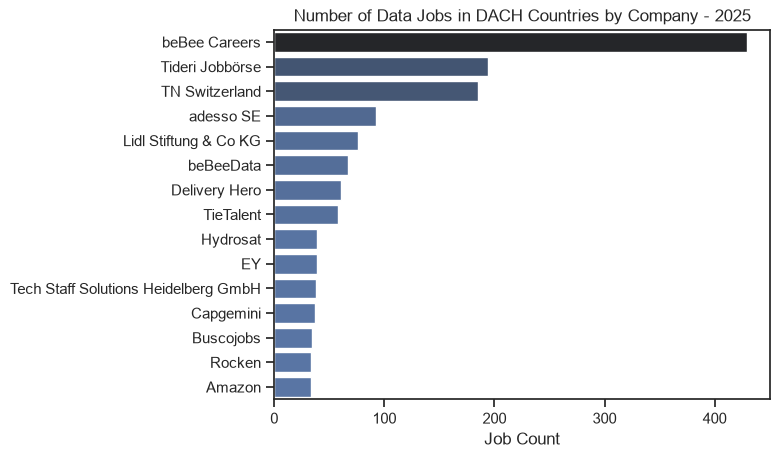
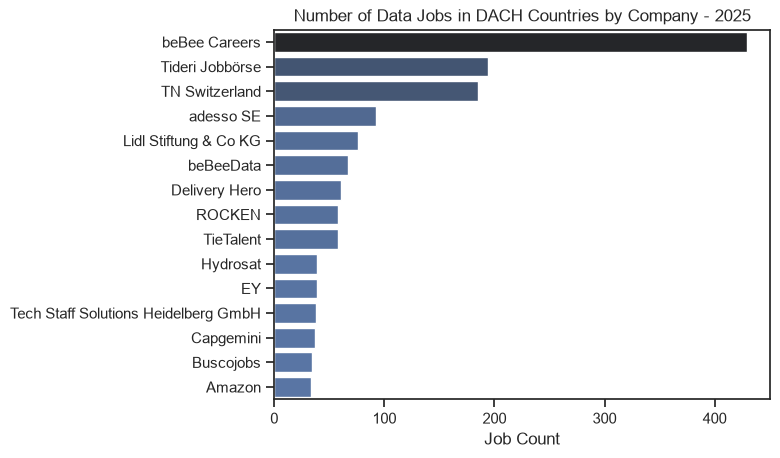
Updating plot visualizations for No of jobs by company

diff --git a/README.md b/README.md
@@ -4,9 +4,14 @@
 
 This project is part of my public [Data Analysis Project repository](https://github.com/fallerdavid98-ai/Data_Analysis_Project/tree/main) and analyzes the demand for technical skills in data-related job postings across the DACH region. For this analysis, the region includes **Germany, Austria, Switzerland, and Luxembourg**.
 
-The project uses the job-posting dataset provided through [Luke Barousse's Python course](https://lukebarousse.com/python). It begins with an exploratory overview of the DACH job market and then analyzes role-specific skill demand, monthly skill trends, salary distributions, and the relationship between skill prominence and median salary.
+The project began with the 2023 job-posting dataset provided through [Luke Barousse's Python course](https://lukebarousse.com/python) and has since been extended with a global data export containing records into 2026. It starts with an exploratory overview of the DACH job market and then analyzes role-specific skill demand, monthly skill trends, salary distributions, and the relationship between skill prominence and median salary.
 
-All five project notebooks are now included in the documented analytical workflow.
+To maintain comparability, **2023 remains the baseline year** and **January through November 2025 is used as the most recent DACH comparison period** for the EDA, skill-demand, skill-trend, and optimal-skill visualizations. The original 2023 charts are retained alongside the new 2025 results. Salary-distribution boxplots are the only exception: because individual recent periods contain too few reported annual salaries, the updated distribution pools all available DACH salary observations rather than being interpreted as a before-and-after comparison.
+
+> [!IMPORTANT]
+> **Different maximum dates:** The complete global export extends into 2026, but the DACH subset contains records only through **November 2025**. Consequently, the updated DACH charts contain no 2026 observations, and the 2025 comparison does not include December.
+
+All five project notebooks are included in the documented analytical workflow.
 
 ## Project Navigation
 
@@ -52,7 +57,7 @@ This project is designed to answer the following questions:
 
 ### Import and clean the dataset
 
-The dataset is loaded and converted into a Pandas DataFrame. Date values are converted to a datetime data type, while the serialized skill lists are converted into Python lists.
+The original 2023 analysis loads the course dataset through Hugging Face. The updated notebooks use a newer global CSV export containing records into 2026; after filtering to the DACH countries, the latest available observation is from November 2025. In both cases, date values are converted to a datetime data type and serialized skill lists are converted into Python lists.
 
 ```python
 import ast
@@ -70,6 +75,30 @@ df["job_skills"] = df["job_skills"].apply(
     lambda x: ast.literal_eval(x) if pd.notna(x) else x
 )
 ```
+
+The updated notebooks load the current export locally:
+
+```python
+df = pd.read_csv("Exporte/job_postings_flat.csv")
+
+df["job_posted_date"] = pd.to_datetime(df["job_posted_date"])
+df["job_skills"] = df["job_skills"].apply(
+    lambda x: ast.literal_eval(x) if pd.notna(x) else x
+)
+```
+
+> [!NOTE]
+> The `Exporte/` directory is excluded from version control. To rerun the updated notebooks, the current CSV export must be supplied locally and its path adjusted to the local project structure.
+
+### Select comparable periods
+
+The updated year-specific analyses select 2025 because the DACH subset contains no 2026 observations:
+
+```python
+df_2025 = df[df["job_posted_date"].dt.year == 2025]
+```
+
+The salary-distribution analysis deliberately omits this year filter and uses the complete available DACH period from 2023 through November 2025. The revised image filename and plot title now refer to `2023 to 2025`; more precisely, the effective DACH observation window ends in November 2025.
 
 ### Filter the DACH region
 
@@ -143,6 +172,18 @@ df_DACH_plot = (
 - **Remote or non-specific locations form a separate category:** `Anywhere` is one of the most frequent labels, but it should not be interpreted as a physical DACH location.
 - **The ranking mixes different geographical grains:** Cities, countries, and remote-location labels are compared in the same chart. It is therefore a useful overview of the raw location field, not a clean city-only market ranking.
 
+#### 2025 comparison
+
+![Number of Data Jobs in DACH Countries 2025](images/2025_Number_of_Data_Jobs_in_DACH_Countries.png)
+
+*The same location ranking calculated from the 2025 comparison year.*
+
+- **Berlin remains the leading city-level location:** It retains first place in both periods.
+- **Zürich gains prominence:** Zürich moves from behind Vienna and Munich in the 2023 baseline to second place in 2025, while Vienna moves down to sixth.
+- **Frankfurt labels are consolidated in 2025:** Entries containing `Frankfurt` are standardized as `Frankfurt a. M., Germany`, improving comparability within the updated year.
+- **The mixed-grain limitation remains:** Country labels and `Anywhere` still appear alongside cities.
+- **Absolute posting counts are much lower in the 2025 extract:** This may reflect changes in source coverage, collection volume, or the underlying market. The chart alone cannot attribute the difference to a market contraction.
+
 ### Work-from-home, degree, and health-insurance indicators
 
 Three Boolean fields provide an initial view of selected characteristics recorded for DACH postings:
@@ -167,6 +208,16 @@ for column in eda_columns:
 - **Explicit work-from-home offers are uncommon:** Only **4.1%** of postings are marked `True` for `job_work_from_home`. This reflects the dataset flag and may not capture every hybrid-working arrangement described in the original vacancy text.
 - **No degree is mentioned in a substantial minority of postings:** `job_no_degree_mention` is `True` for **41.7%** of the DACH subset. Because the column describes the absence of a degree mention, `True` must not be interpreted as a degree requirement.
 - **The health-insurance field is not informative for this regional analysis:** Every DACH observation is marked `False`. This should not be read as evidence that DACH employers provide no health coverage; the field is atypical for the European context and likely reflects the source schema rather than actual benefit availability.
+
+#### 2025 comparison
+
+![Remote Work Degree Requirement and Health Insurance Indicators 2025](images/2025_Remote_Work_Degree_Requirement_Health_Insurance_Plot.png)
+
+*The same three Boolean indicators calculated from the 2025 comparison year.*
+
+- **The explicit work-from-home share decreases slightly:** It moves from **4.1%** in 2023 to **3.3%** in 2025, a decline of **0.8 percentage points**.
+- **Postings without a degree mention become somewhat more common:** The `True` share for `job_no_degree_mention` rises from **41.7%** to **46.2%**, an increase of **4.5 percentage points**.
+- **Health insurance remains analytically uninformative:** The `True` share changes from **0.0%** to only **0.1%** and still should not be interpreted as actual DACH benefit coverage.
 
 ### Companies with the most postings
 
@@ -201,6 +252,18 @@ df_DACH_plot2 = (
 - **Deutsche Bahn is the leading employer in the dataset:** After consolidating its naming variants, it records the highest number of DACH postings by a clear margin.
 - **Turing ranks second:** Workwise GmbH, Michael Page, Hays, GITR, and ROCKEN form the next group of frequently represented companies.
 - **Company-name standardization affects the ranking:** `Bosch Group` and `Bosch Gruppe` still appear as separate labels. A broader entity-resolution step could combine further aliases and change individual positions in the employer ranking.
+
+#### 2025 comparison
+
+![Number of Data Jobs in DACH Countries by Company 2025](images/2025_Number_of_Data_Jobs_in_DACH_Countries_by_Company.png)
+
+*The 15 company labels with the most DACH data-job postings in 2025.*
+
+- **The composition changes substantially:** Deutsche Bahn, Turing, Workwise, Michael Page, and Hays no longer lead the ranking. `beBee Careers`, `Tideri Jobbörse`, and `TN Switzerland` occupy the top three positions in 2025.
+- **Recruiting and aggregation platforms become more visible:** Several leading 2025 labels appear to represent job boards, aggregators, or recruitment platforms rather than only direct employers. The change may therefore partly reflect how postings were collected and attributed.
+- **adesso SE and Lidl enter the leading group:** They are among the most frequently represented direct-employer labels in the updated year.
+- **Rocken remains present but moves down the ranking:** Its naming variants are consolidated in the 2025 preparation step.
+- **The comparison should not be interpreted as pure employer-market turnover:** Changes in data sources and company attribution can materially alter this chart even when the underlying labor market changes less dramatically.
 
 ## The Analysis
 
@@ -291,7 +354,7 @@ plt.show()
 
 ![Likelihood of Skills Requested in DACH Job Postings](images/Likelihood_of_Skills_Requested_in_DACH_Job_Postings.png)
 
-*Percentage of DACH job postings that mention each of the five most frequently requested skills for Data Analysts, Data Engineers, and Data Scientists.*
+*2023 baseline: percentage of DACH job postings that mention each of the five most frequently requested skills for Data Analysts, Data Engineers, and Data Scientists.*
 
 ### Insights
 
@@ -299,6 +362,18 @@ plt.show()
 - **Data Engineers:** Python and SQL dominate at **53%** and **50%**. Cloud and distributed-processing skills are also prominent: Azure appears in **31%**, AWS in **23%**, and Spark in **20%** of postings.
 - **Data Scientists:** Python is the clearest leading skill at **61%**. SQL follows at **34%**, while R remains important at **29%**. Azure and AWS appear less frequently, at **13%** and **11%**.
 - **Across roles:** Python and SQL are the only skills represented among the top five for all three roles, demonstrating their broad relevance across the DACH data job market.
+
+### 2025 comparison
+
+![Likelihood of Skills Requested in DACH Job Postings 2025](images/2025_Likelihood_of_Skills_Requested_in_DACH_Job_Postings.png)
+
+*2025 comparison: posting-level skill shares for the same three role groups.*
+
+- **Data Analysts:** SQL remains first but decreases from **42%** to **39%**, while Python is almost stable at **31%**. Power BI rises from **18%** to **25%** and becomes the third-ranked skill. Excel falls from **21%** to **16%**, while Tableau remains broadly stable at **18%**.
+- **Data Engineers:** Python strengthens from **53%** to **58%** and increases its lead over SQL, which remains nearly stable at **49%**. Azure and AWS also remain close to their 2023 levels. Databricks enters the top five at **18%**, replacing Spark.
+- **Data Scientists:** Python remains dominant but decreases from **61%** to **55%**. SQL changes only slightly, while R drops more clearly from **29%** to **21%**. TensorFlow enters the top five at **11%**, while AWS is no longer represented there.
+- **Cross-role continuity remains high:** Python and SQL are still the only skills appearing among the top five for all three roles.
+- **The largest visible structural shifts are role-specific:** Reporting demand becomes more Power-BI-oriented for analysts, Databricks gains visibility in engineering, and the Data Scientist top five shifts from AWS toward TensorFlow.
 
 ## 2. How are the leading skills trending across DACH data jobs?
 
@@ -321,7 +396,7 @@ df_DACH_pivot = df_DACH_expl.pivot_table(
 )
 ```
 
-The skills are ranked by their total number of mentions across the full year. The temporary `total` row is used only for sorting and is removed before calculating the monthly percentages. This ensures that the chart follows the same five leading skills throughout the year instead of changing the selection from month to month.
+The skills are ranked by their total number of mentions across the selected analysis period. The temporary `total` row is used only for sorting and is removed before calculating the monthly percentages. This ensures that the chart follows the same five leading skills throughout the displayed months instead of changing the selection from month to month.
 
 ```python
 df_DACH_pivot.loc["total"] = df_DACH_pivot.sum()
@@ -390,7 +465,7 @@ The workflow builds on the monthly aggregation techniques practiced in the [Tren
 
 ![Top 5 Job Skills for DACH Data Jobs by Month](images/Top_5_Job_Skills_for_DACH_Data_Jobs.png)
 
-*Monthly share of DACH job postings mentioning each of the five most frequently requested skills across the full year.*
+*2023 baseline: monthly share of DACH job postings mentioning each of the five most frequently requested skills.*
 
 ### Insights
 
@@ -400,6 +475,20 @@ The workflow builds on the monthly aggregation techniques practiced in the [Tren
 - **R fluctuates more strongly:** R reaches local highs of around **19%** in April and early summer, but its monthly share falls to approximately **13%** by December.
 - **AWS also declines toward year-end:** AWS generally stays in the mid-teen range during the first eight months and finishes the year at roughly **12%**.
 - **The annual leaders remain consistent:** Although their monthly prominence changes, Python, SQL, Azure, R, and AWS form the five most frequently mentioned skills across the complete DACH dataset for 2023.
+
+### 2025 comparison
+
+![Top 5 Job Skills for DACH Data Jobs by Month 2025](images/2025_Top_5_Job_Skills_for_DACH_Data_Jobs.png)
+
+*2025 comparison: normalized monthly skill shares for the five leading skills. The current notebook output contains January through November; no December point is displayed.*
+
+- **Python and SQL remain the clear leaders:** Both retain the top two positions throughout the available 2025 months, but fluctuate more strongly than in 2023.
+- **Python reaches its highest level in October:** Its share rises to almost **60%** before ending the displayed period at roughly **54%** in November.
+- **SQL recovers strongly after May:** It falls below **30%** in May, then rises to approximately **48%** by November.
+- **Azure shows the clearest upward movement:** After remaining near the mid-teens through August, it climbs sharply and approaches **30%** in November. This contrasts with the late-2023 decline visible in the baseline chart.
+- **Power BI replaces R in the annual top five:** Its monthly share is volatile and increases markedly in November, reinforcing the role-level shift already visible for Data Analysts.
+- **AWS spikes temporarily:** It reaches roughly **22%** in October before falling back in November.
+- **The time-window difference must remain visible:** The 2023 chart includes December, while the current 2025 chart stops in November. Year-end comparisons should therefore focus on the available common months or treat November as the endpoint for 2025.
 
 ## 3. How well do jobs and skills pay?
 
@@ -512,6 +601,37 @@ The following table supplements the boxplots with the underlying sample sizes an
 - **Some median lines appear to be missing:** They are still present but overlap a box boundary. The median equals the third quartile for Senior Data Scientists, Data Engineers, and Senior Data Engineers, while the Machine Learning Engineer median equals the first quartile.
 - **The ranking is not fully robust:** The displayed role-level sample sizes range only from **26 to 66** observations. The identical medians for Data Engineers and Senior Data Engineers should therefore not be interpreted as proof that both roles generally offer the same compensation across the DACH market.
 
+#### Updated salary coverage and pooled distribution
+
+The 2025 salary subset alone is too small for meaningful role-level boxplots. Even among its six most represented job titles, the available salary counts range only from one to five observations:
+
+![Salary Coverage Statistics for DACH Countries 2025](images/2025_Addition_to_Salary_Distribution_in_DACH_Countries.png)
+
+*2025 salary-coverage diagnostic. The small `count` values explain why a standalone 2025 boxplot would be unstable.*
+
+The updated notebook therefore pools every salary-reported DACH posting available in the current export:
+
+![Salary Distributions in DACH Countries for the Available Multi-Year Period](images/2023to2025_Salary_Distributions_in_DACH_Countries.png)
+
+*Pooled DACH salary distributions for the available period from 2023 through November 2025. The revised plot title summarizes this period as `2023 to 2025`.*
+
+The pooled boxplots are based on the following validated summary statistics:
+
+| Job title | Salary observations | Q1 | Median | Q3 |
+|---|---:|---:|---:|---:|
+| Senior Data Scientist | 31 | $91,350 | $157,500 | $157,500 |
+| Senior Data Engineer | 38 | $89,325 | $147,500 | $147,500 |
+| Data Engineer | 70 | $92,500 | $135,790 | $147,500 |
+| Data Scientist | 93 | $70,000 | $106,500 | $157,500 |
+| Data Analyst | 87 | $58,800 | $89,100 | $111,175 |
+| Machine Learning Engineer | 65 | $86,400 | $89,100 | $166,000 |
+
+- **Pooling improves the observation base:** The displayed role groups now contain between **31 and 93** salary observations instead of relying on the extremely small 2025-only groups.
+- **Senior roles remain at the top of the pooled ranking:** Senior Data Scientists have the highest median at **$157,500**, followed by Senior Data Engineers at **$147,500**.
+- **Data Analysts and Machine Learning Engineers share the lowest pooled median:** Both are at **$89,100**, although the Machine Learning Engineer distribution is much wider.
+- **The pooled chart is not a temporal comparison:** Because it combines several years, differences from the original 2023 plot cannot be attributed to salary growth or decline. The purpose is to obtain a more stable distribution from the limited salary data.
+- **Outliers remain visible:** Data Engineer and Data Analyst postings include individual high-salary observations beyond the upper whiskers.
+
 ### 3.2 Median salary of top-paying and frequently requested skills
 
 #### Method
@@ -593,7 +713,7 @@ plt.show()
 
 ![Median Salary versus Skill Demand for Data Jobs in DACH](images/Median_Salary_vs_Skill_Demand_for_Data_Jobs_in_DACH.png)
 
-*Comparison between the skills with the highest observed median salaries and the most frequently mentioned skills within the DACH salary subset.*
+*2023 baseline: comparison between the skills with the highest observed median salaries and the most frequently mentioned skills within the DACH salary subset.*
 
 #### Insights
 
@@ -683,7 +803,7 @@ The visualization builds on the techniques practiced in the [Scatterplots exerci
 
 ![Salary versus Prominence of Job Postings for Top Skills](images/Salary_vs_Prominence_of_Job_Postings_for_Top_Skills.png)
 
-*Median annual salary versus the share of salary-reported DACH job postings mentioning each skill. Only skills reaching the 8% prominence threshold are displayed.*
+*2023 baseline: median annual salary versus the share of salary-reported DACH job postings mentioning each skill. Only skills reaching the 8% prominence threshold are displayed.*
 
 ### Insights
 
@@ -695,6 +815,35 @@ The visualization builds on the techniques practiced in the [Scatterplots exerci
 - **“Optimal” is a two-dimensional interpretation:** The notebook does not calculate a single composite score. Skills are evaluated visually by their position on the prominence and median-salary axes, so the preferred skill depends on whether breadth of demand or compensation receives more weight.
 - **The findings remain directional:** Salary disclosure is limited, and role seniority, country, employer, and combinations with other skills can influence the observed medians. The chart supports prioritization hypotheses rather than causal conclusions about the salary effect of learning an individual skill.
 
+### 2025 comparison
+
+The updated notebook applies the same calculation to the January–November 2025 DACH subset:
+
+```python
+df_2025 = df[df["job_posted_date"].dt.year == 2025]
+
+df_DACH = (
+    df_2025[df_2025["job_country"].isin(DACH_countries)]
+    .dropna(subset=["salary_year_avg"])
+    .copy()
+)
+```
+
+![Salary versus Prominence of Job Postings for Top Skills 2025](images/2025_Salary_vs_Prominence_of_Job_Postings_for_Top_Skills.png)
+
+*January–November 2025 comparison using the same 8% prominence threshold within the salary-reported DACH subset.*
+
+> [!CAUTION]
+> **Very small 2025 salary sample:** The 2025 role-level diagnostic contains only one to five salary observations per leading job title. In such a small salary subset, an 8% skill threshold can be reached with only a few postings. The unusually high medians for individual skills should therefore be treated as unstable sample results, not as market salary benchmarks.
+
+- **Python and SQL remain the most prominent skills:** Python appears in about **50%** and SQL in approximately **44%** of salary-reported postings. Their associated medians are roughly **$84,000** and **$80,000**, substantially below their positions in the 2023 chart.
+- **AWS gains prominence but has a lower observed median:** Its share rises from roughly **20%** to **25%**, while the associated median moves from about **$147,500** in the baseline to approximately **$115,000** in 2025.
+- **PostgreSQL occupies the highest point in the 2025 chart:** It appears in roughly **19%** of the salary subset with a median near **$248,000**. Given the small underlying sample, this should be treated as an outlier-sensitive result.
+- **Java, Go, and Snowflake form a high-salary, lower-prominence group:** Their observed medians range from approximately **$150,000** to **$205,000**, but each appears in only around **12%** of the salary subset.
+- **The technology mix changes:** Spark, Azure, and Kubernetes are no longer present above the threshold, while PostgreSQL, Java, Go, Snowflake, Power BI, and Airflow enter the displayed set.
+- **Tableau becomes more prominent but has a lower associated median:** Its share increases to roughly **19%**, while the median is approximately **$72,000**.
+- **The two years should be compared directionally:** Differences can reflect the very small 2025 salary sample, changing role composition, employer mix, or salary-reporting patterns—not only changes in the market value of individual skills.
+
 ## What I Learned So Far
 
 - **Choosing the correct denominator matters:** Skill demand should be calculated against the number of original job postings, not against the number of rows produced by `explode()`.
@@ -703,13 +852,16 @@ The visualization builds on the techniques practiced in the [Scatterplots exerci
 - **Regional filtering changes the analytical context:** Findings for the DACH region should not be copied from a U.S.-focused analysis without recalculation.
 - **Clear chart annotations improve readability:** Direct percentage labels make the comparison of skill demand easier across roles.
 - **Monthly counts need normalization:** Dividing monthly skill mentions by the number of postings in the same month makes periods with different posting volumes comparable.
-- **A fixed skill selection improves trend comparisons:** Selecting the five leading skills by their annual totals keeps the plotted categories consistent across all twelve months.
+- **A fixed skill selection improves trend comparisons:** Selecting the five leading skills by their totals for the respective analysis period keeps the plotted categories consistent across every available month. The 2023 baseline covers twelve months, whereas the 2025 DACH comparison covers January through November.
 - **Boxplots and numerical summaries complement each other:** The table of counts and quartiles makes sample size limitations visible and explains why some median lines overlap the box boundaries.
 - **Salary rankings need observation thresholds:** A high median based on only a few postings is less reliable than a similar median supported by many salary observations.
 - **Missing salary values change the analytical population:** Salary-based role and skill rankings describe only the subset of postings that disclose annual compensation.
+- **Dataset coverage must be checked after filtering:** Although the complete global export extends into 2026, the DACH subset ends in November 2025. The maximum date of the source file is therefore not automatically the maximum date of every regional analysis.
+- **Comparable periods require explicit definitions:** The new year-specific charts use January through November 2025, while the 2023 baseline contains the full calendar year. December-to-December comparisons are not possible with the current DACH data.
+- **Pooling can improve stability but changes the question:** Combining all available DACH salary observations produces more informative boxplots, but it describes the pooled 2023–November 2025 sample rather than a change between individual years.
 - **Raw dimensions require semantic checks:** The EDA location field mixes cities, countries, and remote labels, while Boolean columns such as `job_no_degree_mention` must be interpreted according to their exact definitions.
 - **Entity resolution changes aggregated results:** Consolidating employer aliases prevents one organization from being split across several company labels.
-- **An “optimal” skill depends on the objective:** Python and SQL maximize broad applicability, whereas Spark and AWS provide the strongest salary-prominence balance within the analyzed salary subset.
+- **An “optimal” skill depends on the objective and sample:** Python and SQL maximize broad applicability in both comparison periods. Spark and AWS provide the strongest salary-prominence balance in the 2023 baseline, while the apparent 2025 leaders are too dependent on a very small salary sample to support the same level of confidence.
 
 ## Challenges
 
@@ -718,8 +870,11 @@ The visualization builds on the techniques practiced in the [Scatterplots exerci
 - Keeping the same visual scale across subplots while preserving readable labels.
 - Separating supported conclusions from contextual fields that are not directly comparable or are poorly suited to the DACH region.
 - Distinguishing changes in raw posting volume from changes in the percentage of postings that request a particular skill.
+- Distinguishing the global export's maximum date from the effective date coverage of the filtered DACH subset.
+- Comparing a complete 2023 calendar year with a 2025 DACH period that ends in November and contains no December observations.
 - Placing direct labels at the end of the trend lines without reducing readability or confusing closely positioned series.
 - Interpreting salary distributions from relatively small samples without overstating differences between roles.
+- Using a pooled 2023–November 2025 salary distribution to improve sample size without presenting it as a direct before-and-after comparison.
 - Comparing specialized and frequently requested skills when their salary medians can be based on very different numbers of observations.
 - Keeping the distinction clear between overall skill demand and skill frequency within the smaller salary-reported subset.
 - Comparing city, country, and remote location labels that coexist in the same source column.
@@ -728,14 +883,12 @@ The visualization builds on the techniques practiced in the [Scatterplots exerci
 
 ## Conclusion
 
-The exploratory analysis shows that Berlin and Vienna are the leading city-level location labels and that Deutsche Bahn is the most frequently represented employer after its naming variants are consolidated. It also demonstrates the importance of reading source fields carefully: the location ranking mixes geographical levels, and the health-insurance indicator is not suitable for drawing conclusions about actual benefit coverage in the DACH region.
+The exploratory comparison shows both continuity and change between the 2023 baseline and January–November 2025. Berlin remains the leading city-level location, while Zürich becomes more prominent in the updated period. The company ranking changes much more strongly: Deutsche Bahn leads the 2023 data, whereas job boards and recruitment platforms such as beBee Careers, Tideri Jobbörse, and TN Switzerland occupy the leading positions in 2025. Because source coverage and company attribution can affect these rankings, this shift should not be interpreted solely as employer-market turnover. The explicit work-from-home share decreases slightly, while postings without a degree mention become somewhat more common.
 
-The skill-demand analyses show that Python and SQL are central across the selected DACH data roles, while role-specific patterns remain visible: analyst roles place greater emphasis on reporting and visualization tools, engineering roles on cloud and distributed-processing technologies, and data-science roles on Python and R.
+Python and SQL remain the most consistently requested skills across roles and periods. The updated role-level results also reveal more specific shifts: Power BI gains importance for Data Analysts, Databricks enters the Data Engineer top five, and TensorFlow replaces AWS among the five leading Data Scientist skills. The monthly 2025 trends are more volatile than the 2023 baseline, with a particularly strong late-period rise for Azure. However, the updated DACH trend ends in November and therefore contains no December observation.
 
-The monthly trend analysis confirms that Python and SQL remain the leading skills throughout 2023, even though their share of monthly postings declines during the second half of the year. Azure is comparatively stable before a fourth-quarter decrease, while R and AWS show more fluctuation and finish the year below their earlier levels.
+The salary findings require the strongest caution. A standalone 2025 salary analysis is based on too few observations for stable role-level distributions. The updated boxplot therefore pools all available DACH salary observations from 2023 through November 2025. It provides a broader descriptive salary distribution, but it is not evidence of salary growth or decline between 2023 and 2025. The identical or similar role medians and the high observed salaries of some individual skills can be strongly influenced by sparse reporting, repeated salary values, role composition, and outliers.
 
-The salary analysis shows substantial differences between the observed role medians and highlights AWS and Spark as comparatively well-paid among the frequently mentioned skills. At the same time, limited salary coverage and small group sizes reduce the reliability of individual rankings. The identical median salaries observed for Data Engineers and Senior Data Engineers illustrate why these findings should be treated as directional rather than definitive market benchmarks.
+The salary-versus-prominence analysis identifies Spark and AWS as the strongest visible balance in the 2023 baseline, while Python and SQL remain the broadest foundational choices in both periods. The 2025 chart places PostgreSQL, Java, Go, and Snowflake relatively high on the salary axis, but the underlying salary subset is so small that these positions should be treated as exploratory signals rather than market benchmarks.
 
-The final salary-versus-prominence analysis identifies Spark and AWS as the strongest visible balance of the two dimensions within the salary subset. Python and SQL remain the broadest foundational choices, while Git offers a comparatively high median with lower prominence. These outcomes are not universal skill rankings: they depend on the selected 8% threshold, the limited availability of salary information, and the relative importance assigned to prominence versus compensation.
-
-Together, the five notebooks provide a complete exploratory workflow for the DACH data-job dataset—from market orientation and demand patterns to salary distributions and skill prioritization—while keeping the principal data-quality and sample-size limitations explicit.
+Finally, the temporal scope must remain explicit: the complete global export contains records into 2026, but the filtered DACH data ends in **November 2025**. Consequently, none of the updated DACH findings describe 2026, the 2025 comparison is not a complete calendar year, and the pooled salary analysis effectively covers 2023 through November 2025. Within those limitations, the five notebooks provide a reproducible workflow from market orientation and demand trends to salary distributions and skill prioritization while keeping the main data-quality risks visible.
